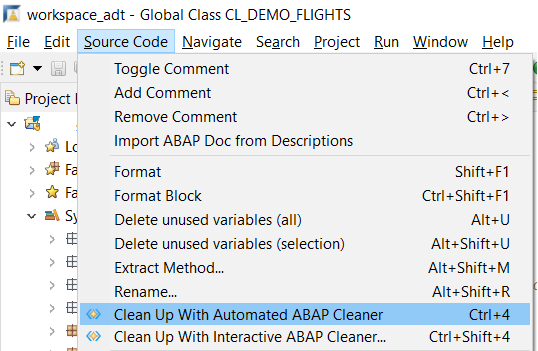
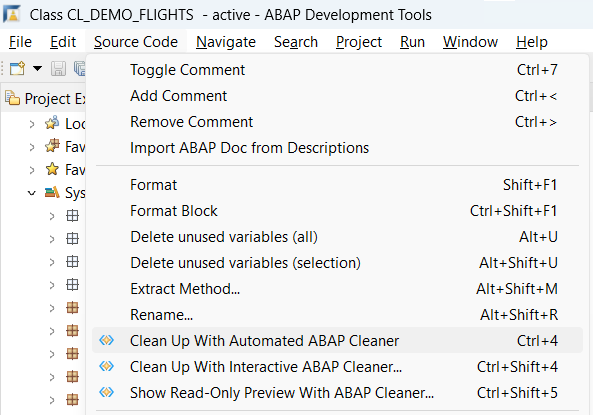
update documentation for new menu item and command line options

Changed region(s): [[0.0, 0.0, 1.0, 1.0], [0.7732, 0.4274, 0.9517, 0.7123], [0.2082, 0.6838, 0.6543, 0.7123]]

diff --git a/docs/usage.md b/docs/usage.md
@@ -2,11 +2,29 @@
 
 ## Cleaning code from ADT with the ABAP cleaner plug-in 
 
+### Automated cleanup 
+
+To clean ABAP code **automatically** with a single keystroke, 
+
+1. **Select** any amount of **ABAP code** in the current code editor in ADT - 
+   or alternatively, do NOT select any code to apply cleanup to the current method or declaration section. 
+2. **Press *Ctrl + 4*** or select menu 'Source Code / Clean Up With **Automated** ABAP Cleaner'. 
+   The cleanup will be done automatically, using the profile and cleanup range that was last selected 
+   when you used the interactive ABAP cleaner UI (see below). 
+
+   ![ABAP cleaner usage - automated cleanup](images/usage_automated.png "ABAP cleaner usage - automated cleanup")
+
+If you clean a selection of code, ABAP cleaner will expand your selection to whole ABAP statements. 
+With the plug-in, you are not required to select complete code blocks 
+(e.g., you may select an ```IF``` without its corresponding ```ENDIF```). 
+
+### Interactive cleanup 
+
 To clean ABAP code **interactively**, 
 
 1. **Select** any amount of **ABAP code** in the current code editor in ADT - 
    or alternatively, do NOT select any code to apply cleanup to the current method or declaration section. 
-2. **Press *Ctrl + Shift + 4*** or select menu 'Source Code / Clean Up With Interactive ABAP Cleaner...'. 
+2. **Press *Ctrl + Shift + 4*** or select menu 'Source Code / Clean Up With **Interactive** ABAP Cleaner...'. 
    This will open the ABAP cleaner UI to compare the original and the cleaned code. 
 
    ![ABAP cleaner usage - interactive cleanup](images/usage_menu-interactive.png "ABAP cleaner usage - interactive cleanup")
@@ -24,19 +42,18 @@ To clean ABAP code **interactively**,
 4. **Press *Ctrl + Enter*** or click 'Apply and Close' to apply the result and return to the ADT editor; 
    to discard the changes, press **Esc** or click 'Cancel'. 
 
-To clean ABAP code **automatically** with a single keystroke, 
+### Read-only preview without locking or changing code 
 
-1. **Select** any amount of **ABAP code** in the current code editor in ADT - 
-   or alternatively, do NOT select any code to apply cleanup to the current method or declaration section. 
-2. **Press *Ctrl + 4*** or select menu 'Source Code / Clean Up With Automated ABAP Cleaner'. 
-   The cleanup will be done automatically, using the profile and cleanup range that was last selected 
-   when you used the interactive ABAP cleaner UI (see above). 
+If you only want a **preview** of the cleaned code, **without locking or changing** the code 
+(e.g. because the object is locked by another person, or you do not have development authorization in the current system), 
 
-   ![ABAP cleaner usage - automated cleanup](images/usage_automated.png "ABAP cleaner usage - automated cleanup")
+1. **Select** any amount of **ABAP code** in the current code editor in ADT.
+2. **Press *Ctrl + Shift + 5*** or select menu 'Source Code / Show **Read-Only Preview** With ABAP Cleaner...': 
 
-If you clean a selection of code, ABAP cleaner will expand your selection to whole ABAP statements. 
-With the plug-in, you are not required to select complete code blocks 
-(e.g., you may select an ```IF``` without its corresponding ```ENDIF```). 
+   ![ABAP cleaner usage - show read-only preview](images/usage_menu-preview.png "ABAP cleaner usage - show read-only preview")
+
+This opens the interactive ABAP cleaner UI as described above, but the code will not be locked or changed. 
+Nevertheless, changes to ABAP cleaner settings (selected profile, activated rules and options etc.) will be kept. 
 
 
 ## Cleaning code with the stand-alone ABAP cleaner app
@@ -78,22 +95,37 @@ clipboard content into your IDE.
 ## Calling ABAP cleaner from the command line
 
 To integrate ABAP cleaner in other processes, you may call the "abap-cleaner**c**.exe" of the stand-alone version 
-from the command line with the following arguments:
+from the command line with the following arguments for cleaning either a single file or multiple files in a directory:
 
 ```
-Usage: .\abap-cleanerc.exe { --sourcefile sourcefile / --source sourcecode } [--linerange linerange]
-                           [{ --profile profile / --profiledata profiledata }] [--release release]
-                           [--targetfile targetfile [--overwrite]] [--partialresult]
-                           [--stats] [--usedrules]
+Usage for single file:
+    .\abap-cleanerc.exe {--sourcefile sourcefile / --source sourcecode } [--linerange linerange]
+                        [{ --profile profile / --profiledata profiledata }] [--release release]
+                        [--targetfile targetfile [--overwrite]] [--partialresult]
+                        [--stats] [--usedrules]
 
-Example: .\abap-cleanerc.exe --sourcefile "CL_ANY_CLASS.txt" --linerange "20-35" --profile "team profile.cfj" --release "757" --targetfile "result\CL_ANY_CLASS.txt" --overwrite --stats --usedrules
+Example for single file:
+    .\abap-cleanerc.exe --sourcefile "CL_ANY_CLASS.txt" --linerange "20-35" --profile "team profile.cfj" --release "757" --targetfile "result\CL_ANY_CLASS.txt" --overwrite --stats --usedrules
 
-Options: 
+Usage for multiple files:
+    .\abap-cleanerc.exe --sourcedir sourcedir [--filepattern filepattern] [--recursive]
+                        [{ --profile profile / --profiledata profiledata }] [--release release]
+                        [--targetdir targetdir [--overwrite]]
+                        [--stats] [--usedrules]
+
+Example for multiple files:
+    .\abap-cleanerc.exe --sourcedir "C:\temp\source" --filepattern "*.txt" --recursive --profile "team profile.cfj" --release "757" --targetdir "C:\temp\target" --overwrite
+
+Options:
     --sourcefile        File name of an ABAP source file which is input to the cleanup.
     --source            ABAP source code which is input to the cleanup.
-                        Please use either --sourcefile or --source.
+                        Please use either --sourcefile or --source or --sourcedir.
     --linerange         Single line range for partial cleanup, e.g. "20-35"
                         Without this option, the cleanup will be applied to the whole code document.
+
+    --sourcedir         Folder that contains ABAP source files (default file pattern is "*.abap")
+    --filepattern       File pattern to look for (only relevant when --sourcedir has been supplied)
+    --recursive         Searches provided source directory recursively for ABAP files
 
     --profile           File name of the cleanup profile to be used (extension .cfj).
                         From the UI, you may use button 'Export...' from the profiles editor to create the file.
@@ -104,6 +136,8 @@ Options:
 
     --targetfile        Target file name to which the cleanup result will be saved.
                         Without this option, the cleanup result will be written to the standard output.
+    --targetdir         Target directory name to which the cleanup files will be saved
+                        If not supplied, --sourcedir will be the target diretory
     --overwrite         Overwrite target file if it already exists.
                         Without this option, an error will be raised if the target file already exists.
     --partialresult     Restrict output to the cleanup result of the --linerange (if supplied).

diff --git a/docs/main-window.md b/docs/main-window.md
@@ -86,9 +86,11 @@ If you need to restrict code changes performed by the cleanup rules to the synta
 cleanup rules that introduce calculation assignment operators such as ```+=``` will be automatically skipped. 
 Changes to this setting trigger a reprocessing of the current cleanup. 
 
-When called from inside ADT, ABAP cleaner automatically determines the ABAP release of the current code document
+When called from inside ADT, ABAP cleaner automatically determines the ABAP release of the current system 
 and restricts rules to this release; with the setting on the UI, this can be restricted even further. 
+The ABAP release of the current system is shown in the window title:
 
+![ABAP cleaner main window - ABAP release in title](images/main-window_title.png "ABAP cleaner main window - ABAP release in title")
 
 ## Display Settings
 
